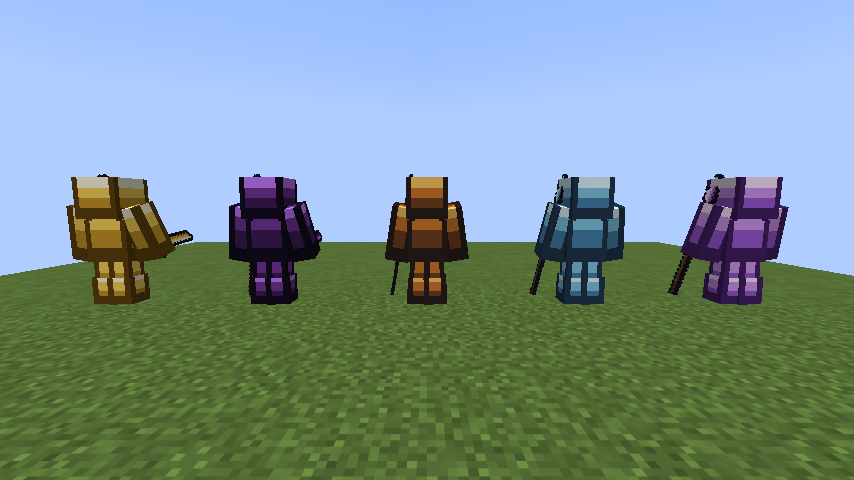
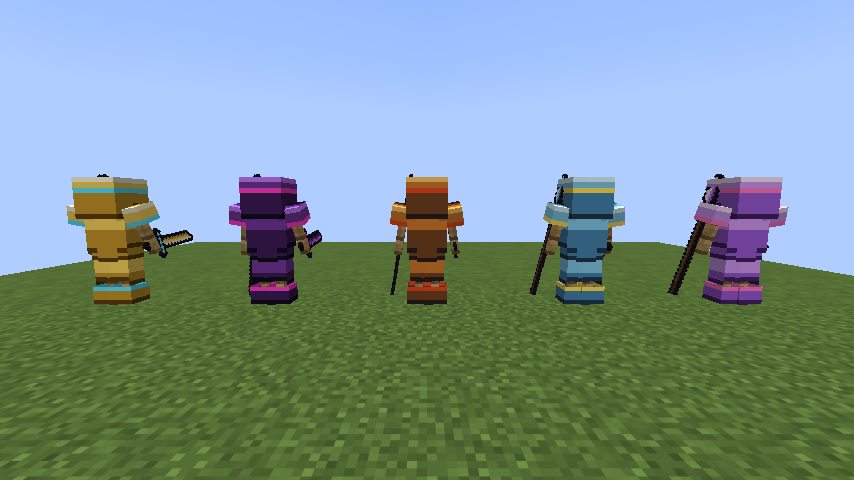
Slimmer boss armour: open visor, shoulder guards, belt and thigh guards, low boots
The worn armour covered every face of the model, sleeves down to the
wrist, a plate under the helmet, and a black outline round every face,
which made it look bulky. It is now an open-visored helmet, a breastplate
with shoulder guards (bare forearms), a belt with thigh and knee guards,
and ankle-high boots, edged in each tier's dark shade.

diff --git a/tools/boss_mode/gen_boss_gear.py b/tools/boss_mode/gen_boss_gear.py
@@ -369,55 +369,64 @@ def spear_in_hand(colors):
 
 
 def armour_layer(tier: str, leggings: bool):
+    """
+    The worn armour, 64 x 32 in the vanilla humanoid layout. Kept slim: an open-visored helmet, a breastplate with
+    shoulder guards (bare forearms), low boots; the leggings are a belt and thigh guards. No black outline: edges are
+    the tier's dark shade, the trim its accent.
+    """
     _, dark, mid, light, high, accent, _, _ = TIERS[tier]
     px = [[(0, 0, 0, 0)] * 64 for _ in range(32)]
 
-    def box(x0, y0, x1, y1, base):
-        for y in range(y0, y1):
-            for x in range(x0, x1):
-                px[y][x] = (*base, 255)
+    def put(x, y, colour):
+        px[y][x] = (*colour, 255)
 
-    def shade_box(x0, y0, x1, y1):
-        """A face: light at the top, dark at the bottom, an outline, and an accent stripe through it."""
-        height = y1 - y0
-        for y in range(y0, y1):
-            t = (y - y0) / max(1, height - 1)
-            base = high if t < 0.15 else light if t < 0.45 else mid if t < 0.8 else dark
-            for x in range(x0, x1):
-                px[y][x] = (*base, 255)
-        for x in range(x0, x1):
-            px[y0][x] = (*OUTLINE, 255) if (x - x0) % 7 == 0 else px[y0][x]
-            px[y1 - 1][x] = (*dark, 255)
-        for y in range(y0, y1):
-            px[y][x0] = (*dark, 255)
-            px[y][x1 - 1] = (*dark, 255)
+    def face(x0, y0, w, h, covered, trim_rows=(), gems=()):
+        """Paints face cells where covered(fx, fy); shaded light at the top to dark at the bottom, edged in dark."""
+        cells = {(fx, fy) for fy in range(h) for fx in range(w) if covered(fx, fy)}
+        for fx, fy in cells:
+            t = fy / max(1, h - 1)
+            colour = high if fy == min(f for _, f in cells) else light if t < 0.4 else mid
+            edge = any((fx + dx, fy + dy) not in cells for dx, dy in ((1, 0), (-1, 0), (0, 1), (0, -1))
+                       if 0 <= fx + dx < w and 0 <= fy + dy < h) or (fy + 1 == h)
+            if edge and fy != min(f for _, f in cells):
+                colour = dark if fy + 1 == h or (fx, fy + 1) not in cells else mid
+            if fy in trim_rows:
+                colour = accent
+            if (fx, fy) in gems:
+                colour = accent
+            put(x0 + fx, y0 + fy, colour)
 
     if not leggings:
-        # Head: every face of the helmet, the front open for the face.
-        for x0, y0, x1, y1 in ((8, 0, 16, 8), (16, 0, 24, 8), (0, 8, 8, 16), (8, 8, 16, 16), (16, 8, 24, 16), (24, 8, 32, 16)):
-            shade_box(x0, y0, x1, y1)
-        for y in range(11, 16):
-            for x in range(10, 14):
-                px[y][x] = (0, 0, 0, 0)
-        for x in range(9, 15):
-            px[9][x] = (*accent, 255)
-        # Body and arms: the chestplate.
-        for x0, y0, x1, y1 in ((20, 16, 28, 20), (16, 20, 20, 32), (20, 20, 28, 32), (28, 20, 32, 32), (32, 20, 40, 32),
-                               (44, 16, 48, 20), (48, 16, 52, 20), (40, 20, 44, 32), (44, 20, 48, 32), (48, 20, 52, 32), (52, 20, 56, 32)):
-            shade_box(x0, y0, x1, y1)
-        for y in range(22, 28):
-            px[y][23] = (*accent, 255)
-            px[y][24] = (*accent, 255)
-        # Legs: only the boots, at the bottom.
-        for x0, x1 in ((0, 4), (4, 8), (8, 12), (12, 16)):
-            shade_box(x0, 26, x1, 32)
+        # ---- Helmet: crown and back closed, an open visor with a nose guard and cheek pieces; nothing underneath.
+        face(8, 0, 8, 8, lambda fx, fy: True, gems={(3, 3), (4, 4), (3, 4), (4, 3)})                      # top
+        face(8, 8, 8, 8, lambda fx, fy: fy < 3 or fx in (0, 7) or (fx in (3, 4) and fy < 6),
+             trim_rows=(2,))                                                                                 # front
+        face(0, 8, 8, 8, lambda fx, fy: fy < 6 or fx < 4, trim_rows=(2,))                                     # right side (front at fx 7)
+        face(16, 8, 8, 8, lambda fx, fy: fy < 6 or fx > 3, trim_rows=(2,))                                    # left side (front at fx 0)
+        face(24, 8, 8, 8, lambda fx, fy: True, trim_rows=(2,))                                                # back
+        # ---- Chestplate: a breastplate tapering at the waist, shoulder guards on the upper arm only.
+        face(20, 16, 8, 4, lambda fx, fy: True)                                                             # body top
+        face(20, 20, 8, 12, lambda fx, fy: fy < 9 or (fy < 11 and 1 <= fx <= 6) or 2 <= fx <= 5,
+             gems={(3, 3), (4, 3), (3, 4), (4, 4)})                                                           # front
+        face(16, 20, 4, 12, lambda fx, fy: fy < 9)                                                          # right side
+        face(28, 20, 4, 12, lambda fx, fy: fy < 9)                                                          # left side
+        face(32, 20, 8, 12, lambda fx, fy: fy < 10 or 2 <= fx <= 5)                                          # back
+        face(44, 16, 4, 4, lambda fx, fy: True)                                                             # arm top
+        for x0 in (40, 44, 48, 52):
+            face(x0, 20, 4, 12, lambda fx, fy: fy < 4, trim_rows=(3,))                                        # pauldrons
+        # ---- Boots: low, with a sole and an accent cuff.
+        face(8, 16, 4, 4, lambda fx, fy: True)                                                              # sole
+        for x0 in (0, 4, 8, 12):
+            face(x0, 20, 4, 12, lambda fx, fy: fy >= 8, trim_rows=(8,))
     else:
-        # Leggings: the waist of the body and the whole of the legs.
-        for x0, y0, x1, y1 in ((16, 26, 20, 32), (20, 26, 28, 32), (28, 26, 32, 32), (32, 26, 40, 32),
-                               (4, 16, 8, 20), (8, 16, 12, 20), (0, 20, 4, 32), (4, 20, 8, 32), (8, 20, 12, 32), (12, 20, 16, 32)):
-            shade_box(x0, y0, x1, y1)
-        for x in range(20, 28):
-            px[26][x] = (*accent, 255)
+        # ---- Leggings: a belt with a buckle, and thigh guards down to the knee; the inner thigh is left open.
+        for x0, w in ((16, 4), (20, 8), (28, 4), (32, 8)):
+            buckle = {(3, 9), (4, 9), (3, 10), (4, 10)} if x0 == 20 else set()
+            face(x0, 20, w, 12, lambda fx, fy: fy >= 8, trim_rows=(8,), gems=buckle)
+        face(0, 20, 4, 12, lambda fx, fy: fy < 8)                                                           # outer side
+        face(4, 20, 4, 12, lambda fx, fy: fy < 8, gems={(1, 5), (2, 5)})                                     # front, knee
+        face(8, 20, 4, 12, lambda fx, fy: fy < 3)                                                           # inner side
+        face(12, 20, 4, 12, lambda fx, fy: fy < 7)                                                          # back
     return px
 
 

diff --git a/CHANGELOG_1.0.0_KO.md b/CHANGELOG_1.0.0_KO.md
@@ -162,6 +162,7 @@ ALU 0.2.1 위에 합쳤던 것을, 0.2.2의 내용까지 들여왔습니다.
 - **제작법**: 바닐라와 같은 모양에 철 대신 보스 재료, 손잡이는 막대기입니다. 창은 바닐라 창처럼 재료 1 + 막대기 2(대각선)입니다.
 - **최종 장비**: 네 보스의 재료를 하나씩(수정 비늘·폭풍 비늘·거수 장갑판·공허 주괴) 제작대에 아무렇게나 놓으면 **최종 합금** 1개가 됩니다. 최종 장비는 다른 장비와 같은 모양에 최종 합금과 막대기로 만들고, 부서지지 않습니다.
 - 수리는 모루에서 각 등급의 재료(최종은 최종 합금)로 합니다. 모든 보스 장비는 불에 타지 않습니다. 크리에이티브에서는 재료가 재료 탭, 장비가 전투 탭에 있습니다.
+- 입었을 때의 갑옷은 얇게 그렸습니다. 투구는 얼굴 쪽이 열려 있고(코 보호대와 볼 보호대만), 흉갑은 가슴판과 어깨 보호대까지라 아래팔이 드러나며, 레깅스는 허리띠와 무릎까지의 허벅지 보호대, 부츠는 발목 높이입니다.
 - 아이템 그림, 입었을 때의 갑옷, 손에 든 긴 창 모델은 `tools/boss_mode/gen_boss_gear.py`가 만듭니다.
 
 ![다섯 세트를 입힌 갑옷 거치대 (앞)](docs/previews/boss_gear_front.png)
